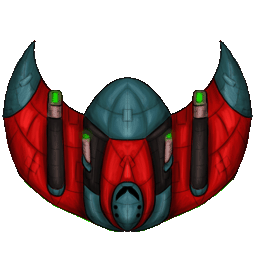
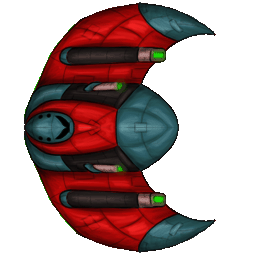
Changed ship png

diff --git a/index.html b/index.html
@@ -17,8 +17,9 @@
 <script type="text/javascript">
 
 //Globals and constants (bad code is bad)
-speed = 1;
+speed = 0.1;
 maxSpeed = 10;
+turningSpeed = 5;
 
 var game = new Phaser.Game(window.innerWidth, window.innerHeight, Phaser.AUTO, '', { preload: preload, create: create, update: update });
 
@@ -51,7 +52,7 @@ function create() {
   game.vjoy = game.plugins.add(Phaser.Plugin.VJoy);
 	// Select an area of the canvas where the joystick should be available
   game.vjoy.inputEnable(0, 0, game.width, game.height);
-	
+
 }
 
 function update() {
@@ -59,7 +60,33 @@ function update() {
   cursors = game.vjoy.cursors;
 
 	//Spin ship into direction of joystick's vector
-	// ...
+	if (Math.abs(ship.body.angle - cursors.angle) < 10) ship.body.angle = cursors.angle;
+	else if (ship.body.angle > 0 && cursors.angle > 0)
+	{
+		if (ship.body.angle > cursors.angle) ship.body.angle -= turningSpeed;
+		else ship.body.angle += turningSpeed;
+	}
+	else if (ship.body.angle < 0 && cursors.angle < 0)
+	{
+		if (ship.body.angle > cursors.angle) ship.body.angle -= turningSpeed;
+		else ship.body.angle += turningSpeed;
+	}
+	else if (ship.body.angle > 0 && cursors.angle < 0)
+	{
+		if (ship.body.angle - Math.abs(cursors.angle) < 180) ship.body.angle -= turningSpeed;
+		else ship.body.angle += turningSpeed;
+	}
+	else if (ship.body.angle < 0 && cursors.angle > 0)
+	{
+		if (cursors.angle - Math.abs(ship.body.angle) > 180 ) ship.body.angle -= turningSpeed;
+		else ship.body.angle += turningSpeed;
+	}
+
+	//Accelerate ship
+	if (cursors.magnitude > 0) {
+		ship.body.x += cursors.deltaX * speed;
+		ship.body.y += cursors.deltaY * speed;
+	}
 }
 
 </script>
